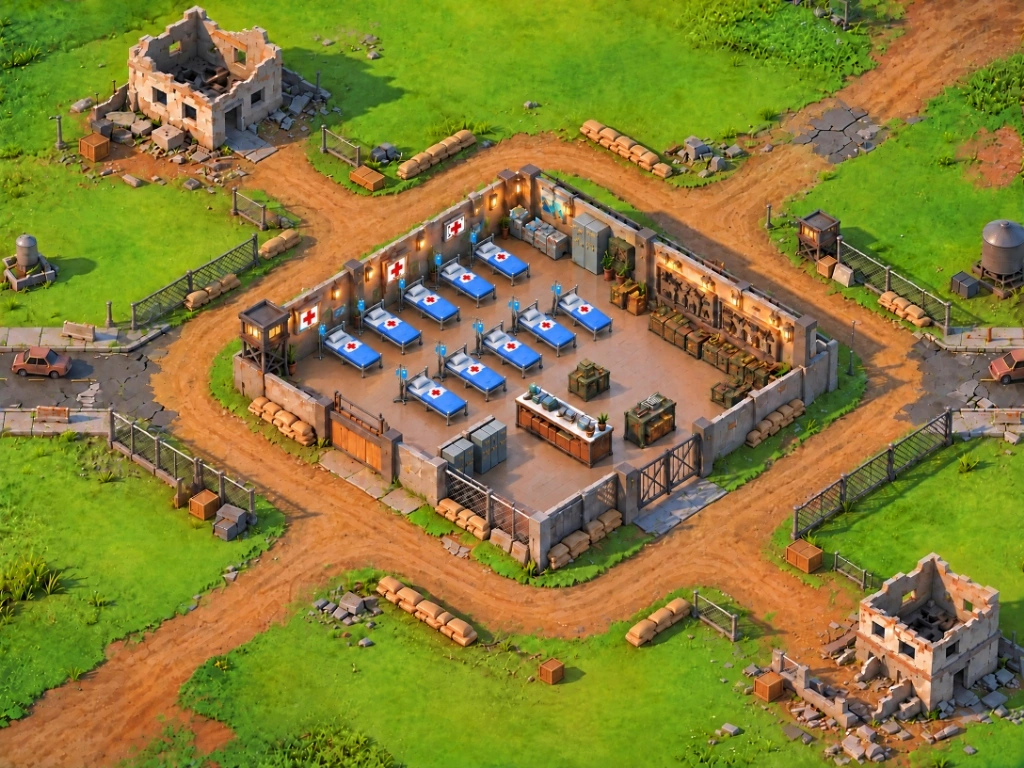
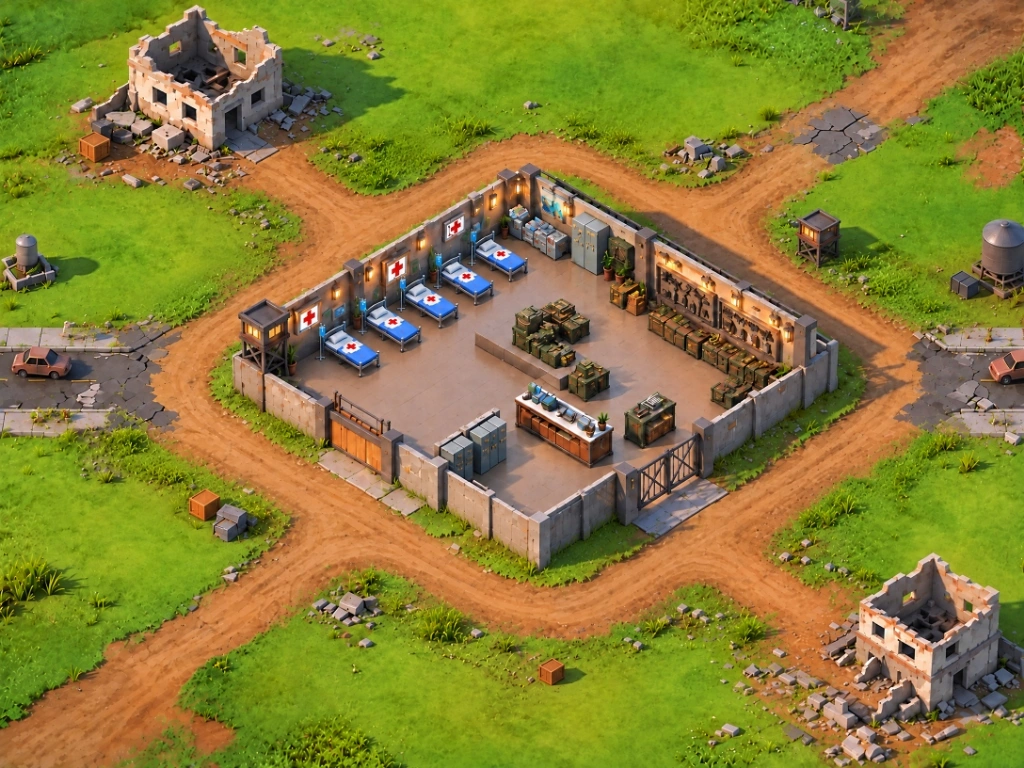
fix: seal full isometric diamond of base walls from heroes and zombies

diff --git a/src/utils/cityMapGeometry.js b/src/utils/cityMapGeometry.js
@@ -14,36 +14,42 @@ export const TILE_SIZE = 76;
 
 /**
  * Retorna se a célula (c, r) está no perímetro interno, muros, pátio ou leitos da Base Militar e Hospital.
- * Regra Oficial do Usuário: 
- * "e tem herois e zumbis subindo na base onde nao deveriam subir"
- * Zumbis e heróis NUNCA podem subir nem caminhar dentro do santuário da base (Colunas 4 a 10, Linhas 3 a 8).
+ * REGRA OFICIAL DO USUÁRIO: 
+ * "na marca circulada nao podera herois e zumbis andar sobre e essa barreira"
+ * Zumbis e heróis NUNCA podem subir nem caminhar sobre os muros ou dentro do santuário da base.
  */
 export function isBaseCompound(c, r) {
-  // Complexo militar fortificado & Hospital: todo o quadrado central (muros, leitos, caixas e armaria)
-  // Colunas 4 a 10, Linhas 3 a 8 são 100% impenetráveis por heróis e zumbis
-  if (c >= 4 && c <= 10 && r >= 3 && r <= 8) return true;
+  // Complexo militar fortificado & Hospital: todo o perímetro fortificado demarcado pelo usuário (muros, torre oeste, leitos, caixas e armaria)
+  // Topo / Ápice Norte (Muro de concreto sob o outdoor):
+  if (r === 2 && (c === 7 || c === 8)) return true;
+  // Linha 3 (Salas norte e leitos superiores):
+  if (r === 3 && c >= 5 && c <= 10) return true;
+  // Linha 4 (Torre de vigia oeste até muro leste):
+  if (r === 4 && c >= 3 && c <= 11) return true;
+  // Linha 5 (Torre de vigia oeste até quina leste):
+  if (r === 5 && c >= 3 && c <= 11) return true;
+  // Linha 6 (Portão de madeira sudoeste até quina sudeste):
+  if (r === 6 && c >= 4 && c <= 11) return true;
+  // Linha 7 (Muro sul e portão metálico sudeste):
+  if (r === 7 && c >= 5 && c <= 10) return true;
+  // Fundo / Ápice Sul (Quina inferior do muro fortificado):
+  if (r === 8 && (c === 7 || c === 8)) return true;
   return false;
 }
 
 /**
  * Retorna se a célula (c, r) contém um obstáculo sólido:
  * Mapeamento estrito baseado nas demarcações oficiais do usuário:
- * "onde foi selecionado em hiotese alguma zumbis e herois podem pizar em cima ou passar ali"
+ * "agora sem as cercas e sacos de areia os zumbis e herois podem andar livremente sem ficar travados exeto nas contruçoes carros torre e outdoor"
+ * "na marca circulada nao podera herois e zumbis andar sobre e essa barreira"
  * 
- * - Ruína Noroeste (prédio concreto e escombros)
+ * - Ruína Noroeste (prédio de concreto)
  * - Outdoor / Billboard "CryptoZombies" e sustentação
- * - Torre de vigia norte
- * - Barricadas de sacos de areia norte
- * - Caixa d'água / gerador oeste
+ * - Torre de sirene oeste e guarita de madeira leste
  * - Carros abandonados (oeste e leste)
- * - Cercas de arame, barricadas e escombros oeste
- * - Base Militar Fortificada & Complexo Hospitalar (muros, hospital, pátio)
- * - Barricadas de sacos de areia sul
- * - Caixote de madeira sul
- * - Ruína Sudeste (prédio de concreto, muros e escombros)
- * - Cercas de arame e bloqueios de concreto leste
- * - Silo / reservatório metálico de combustível leste
- * - Guarita / torre de vigia e cercas leste
+ * - Base Militar Fortificada & Complexo Hospitalar (todo o perímetro marcado em vermelho)
+ * - Ruína Sudeste (prédio de concreto no canto inferior direito)
+ * - Silos / reservatórios metálicos nas bordas
  * 
  * Onde for true: nem heróis nem zumbis/boss podem pisar, atravessar ou nascer.
  * Onde for false: ruas pavimentadas (livres de carros), caminhos de terra batida e gramados livres.
@@ -52,37 +58,34 @@ export function isCityObstacle(c, r) {
   // Limites exteriores do mapa (fora do grid de combate)
   if (c < 0 || c >= GRID_COLS || r < 0 || r >= GRID_ROWS) return true;
 
-  // REGRA OFICIAL DO USUÁRIO:
-  // "agora sem as cercas e sacos de areia os zumbis e herois podem andar livremente sem ficar travados exeto nas contruçoes carros torre e outdoor"
-
   // 1. CONSTRUÇÕES - RUÍNA NOROESTE (Prédio de concreto destruído no topo esquerdo)
-  if (c >= 2 && c <= 4 && (r === 1 || r === 2)) return true;
+  if ((c === 2 || c === 3) && (r === 1 || r === 2)) return true;
 
   // 2. OUTDOOR / BILLBOARD "CRYPTOZOMBIES" (Norte no gramado)
   if ((c === 7 || c === 8) && (r === 0 || r === 1)) return true;
 
-  // 3. TORRE DE VIGIA NORTE (Madeira no topo direito)
-  if (c === 11 && r === 0) return true;
-
-  // 4. CARROS ABANDONADOS NO ASFALTO (Oeste e Leste)
-  if (c === 1 && r === 5) return true; // Carro na pista oeste
-  if ((c === 13 || c === 14) && r === 5) return true; // Carro na pista leste
-
-  // 5. TORRE DE SIRENE E ALARME DE VIGIA OESTE
+  // 3. TORRE DE SIRENE E ALARME DE VIGIA OESTE
   if (c === 2 && r === 3) return true;
 
+  // 4. TORRE DE VIGIA NORTE / LESTE (Guarita elevada de madeira)
+  if (c === 11 && r === 3) return true;
+
+  // 5. CARROS ABANDONADOS NO ASFALTO (Oeste e Leste)
+  if (c === 1 && r === 5) return true; // Carro na pista oeste
+  if (c === 14 && r === 5) return true; // Carro na pista leste
+
   // 6. CONSTRUÇÃO CENTRAL - BASE MILITAR & HOSPITAL DE SOBREVIVÊNCIA
-  // Todo o quadrado fortificado central (muros e interior com leitos e armaria)
+  // Perímetro fortificado diamantado demarcado pelo usuário (muros, torre oeste, leitos e armaria)
   if (isBaseCompound(c, r)) return true;
 
   // 7. CONSTRUÇÕES - RUÍNA SUDESTE (Prédio de concreto destruído no canto inferior direito)
-  if (c >= 11 && c <= 13 && (r === 8 || r === 9)) return true;
+  if ((c === 12 || c === 13) && (r >= 8 && r <= 10)) return true;
 
   // 8. CONSTRUÇÕES - SILO / RESERVATÓRIO METÁLICO DE COMBUSTÍVEL LESTE
-  if ((c === 13 || c === 14) && (r === 3 || r === 4)) return true;
+  if (c === 14 && (r === 3 || r === 4)) return true;
 
-  // 9. CONSTRUÇÕES - GUARITA ELEVADA LESTE
-  if (c === 11 && (r === 3 || r === 4)) return true;
+  // 9. CONSTRUÇÕES - RESERVATÓRIO / HIDRANTE METÁLICO OESTE
+  if (c === 0 && (r === 3 || r === 4)) return true;
 
   // Todas as demais estradas, caminhos de terra batida e gramados estão 100% livres
   return false;
